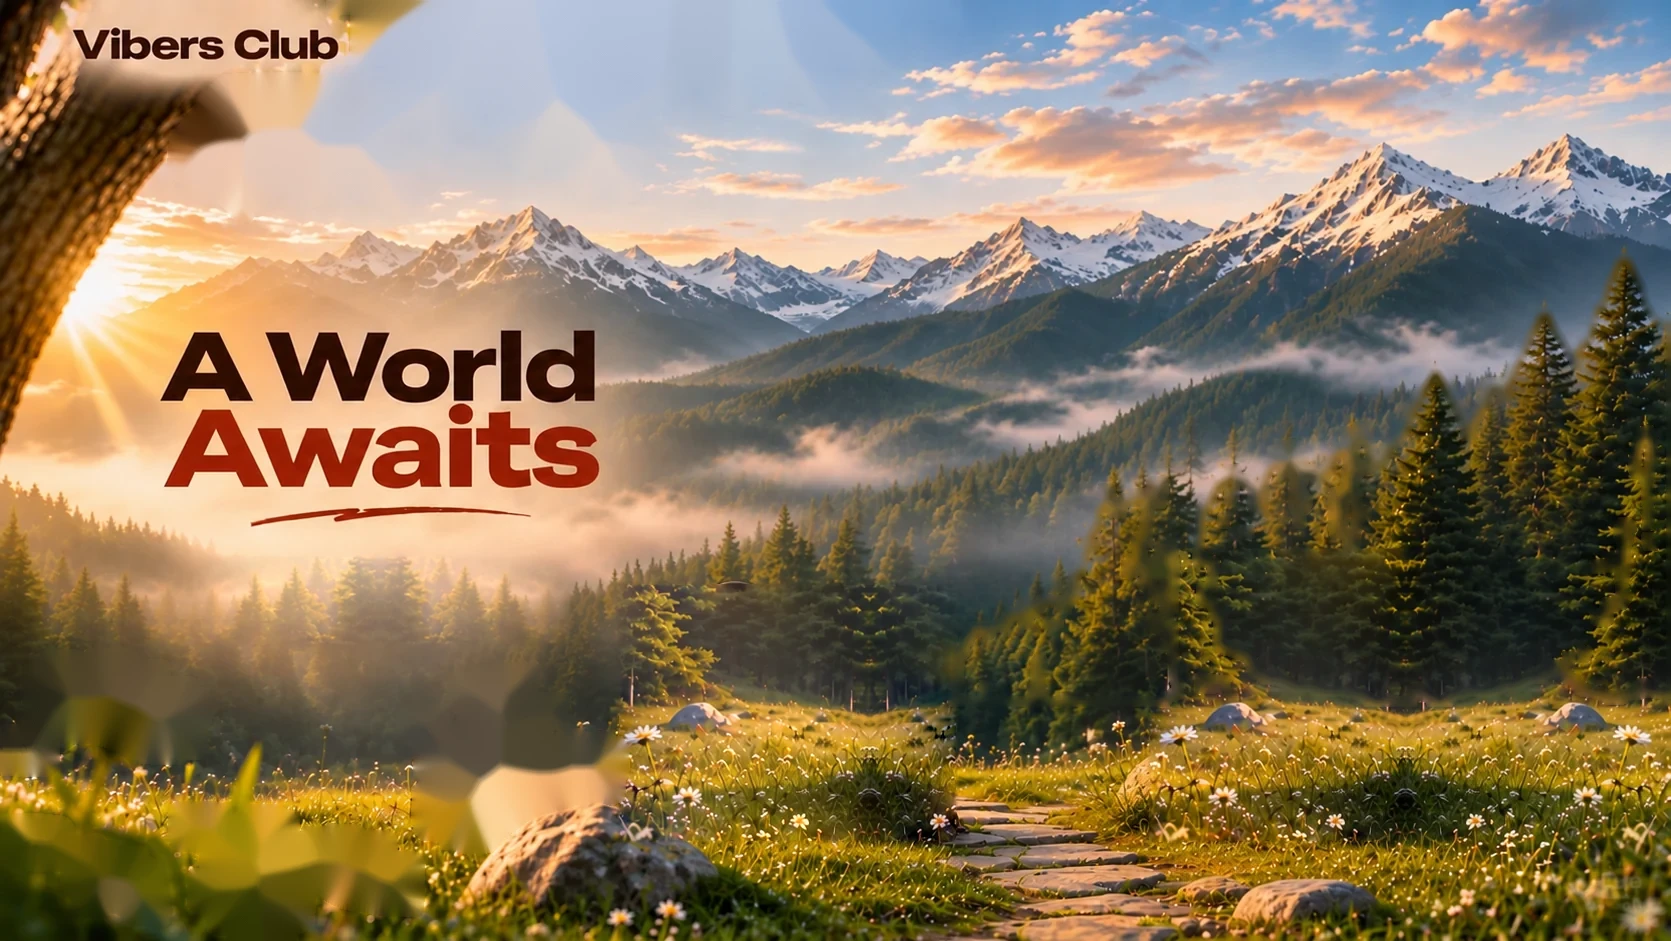
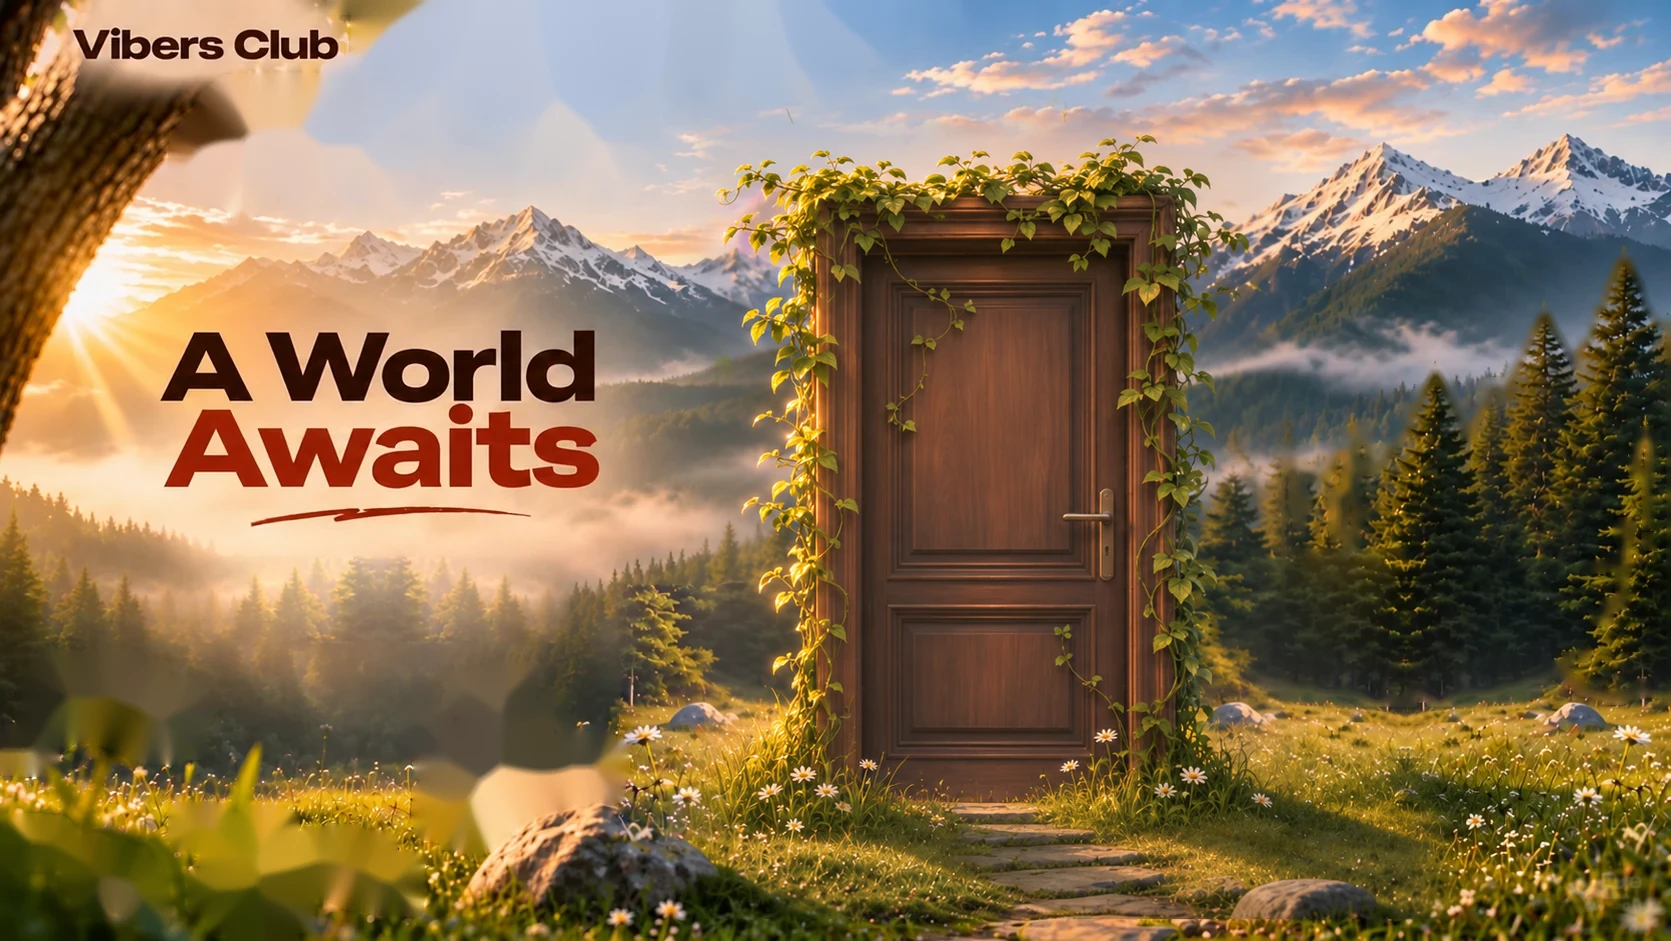
Door meadow: ARPIT's painted door wrapped in vines; only the door is cut out and swings open
Claude-Session: https://claude.ai/code/session_01EqQkYapVdeb76CjFPBEteX

Changed region(s): [[0.4045, 0.1233, 0.8713, 0.9862]]

diff --git a/apps/web/features/entry/scene.ts b/apps/web/features/entry/scene.ts
@@ -1,5 +1,4 @@
 import * as THREE from "three";
-import { groundDoor, RECESS } from "./grounding";
 import { addMeadowLife, layerPicture, loadMeadowLayers, MEADOW_STRENGTH, type MeadowLife } from "./scenery";
 
 /**
@@ -163,6 +162,11 @@ const MEADOW_Z = -14; // the picture stands this far behind the door
 // transparent, 772 x 1357) and the door itself (571 x 1226, the opening exactly)
 const WOOD_PX = { w: 772, h: 1357, open: { l: 100, r: 671, t: 113, b: 1339 } };
 const WOOD_UNIT = DOOR_H / (WOOD_PX.open.b - WOOD_PX.open.t);
+// ARPIT's door painted into the meadow picture, wrapped in vines (2026-11-18): the frame, vines, shadow and
+// grass are part of the picture; only the door is cut out (door-leaf-painted.webp), to swing open on its
+// left edge, and what stands in front of the doorway (door-front.png: grass, daisies, overhanging vines)
+// stays in front of it. Pixels of the meadow picture.
+const PAINTED = { l: 862, r: 1128, t: 247, b: 801, front: { l: 854, t: 239, r: 1136, b: 807 }, thick: 10 };
 
 export async function createEntryScene(
   canvas: HTMLCanvasElement,
@@ -191,7 +195,7 @@ export async function createEntryScene(
   const [frameTex, leafTex, meadowTex] = await Promise.all([
     picture(backdrop === "meadow" ? "/entry/doorframe-wood.webp" : "/entry/doorframe.webp"),
     picture(backdrop === "meadow" ? "/entry/door-leaf-wood.webp" : "/intro/door-leaf.webp"),
-    backdrop === "meadow" ? picture("/entry/meadow.webp") : Promise.resolve(null),
+    backdrop === "meadow" ? picture("/entry/meadow-door.webp") : Promise.resolve(null),
   ]);
   const alive = backdrop === "meadow" && !!opts.alive;
   const layers = alive ? await loadMeadowLayers(loader, keep) : null;
@@ -285,8 +289,7 @@ export async function createEntryScene(
   doorGroup.add(frame);
 
   // ---- the doorway itself: where the canvas turns transparent, showing the site underneath
-  // in the meadow the door and the doorway sit back inside the frame (grounding.ts)
-  const doorwayZ = -0.01 - (meadow ? RECESS : 0);
+  const doorwayZ = -0.01;
   const portal = new THREE.Mesh(
     keep(new THREE.PlaneGeometry(openW, DOOR_H)),
     keep(
@@ -354,24 +357,46 @@ export async function createEntryScene(
   const leafMat = keep(new THREE.MeshBasicMaterial({ map: leafTex, toneMapped: false }));
   const edgeMat = keep(new THREE.MeshBasicMaterial({ color: COL.edge, toneMapped: false }));
   const hinge = new THREE.Group();
-  hinge.position.set(-openW / 2 - leaf.lap, DOOR_Y, 0.02 + DOOR.t / 2 - (meadow ? RECESS : 0));
+  hinge.position.set(-openW / 2 - leaf.lap, DOOR_Y, 0.02 + DOOR.t / 2);
   const slab = new THREE.Mesh(keep(new THREE.BoxGeometry(leaf.w, leaf.h, DOOR.t)), [edgeMat, edgeMat, edgeMat, edgeMat, leafMat, leafMat]);
   slab.position.set(leaf.w / 2, leaf.h / 2, 0);
   slab.renderOrder = 15;
   hinge.add(slab);
   doorGroup.add(hinge);
-  // ARPIT: the door should belong in the meadow: depth, its light, its shadow, grass at its foot
-  const grounded = meadow
-    ? groundDoor({
-        doorGroup,
-        frameMat: frame.material as THREE.MeshBasicMaterial,
-        leafMat,
-        openW,
-        doorH: DOOR_H,
-        casing: { side: WOOD_PX.open.l * WOOD_UNIT, head: WOOD_PX.open.t * WOOD_UNIT, below: (WOOD_PX.h - WOOD_PX.open.b) * WOOD_UNIT },
-        keep,
-      })
-    : null;
+  // in the meadow the door is the one painted into the picture: the 3D frame and door step aside
+  if (meadow) frame.visible = hinge.visible = portal.visible = false;
+  const painted = new THREE.Group();
+  const paintedLeafMat = meadow ? keep(new THREE.MeshBasicMaterial({ map: await picture("/entry/door-leaf-painted.webp"), toneMapped: false })) : null;
+  if (meadow && paintedLeafMat) {
+    const P = PAINTED;
+    const w = P.r - P.l,
+      h = P.b - P.t;
+    // in pixels of the picture, y up, about the picture's middle (laid onto the picture in layoutMeadow)
+    const at = (x: number, y: number) => new THREE.Vector3(x - MEADOW_PX.w / 2, MEADOW_PX.h / 2 - y, 0);
+    const hole = new THREE.Mesh(
+      keep(new THREE.PlaneGeometry(w, h)),
+      keep(new THREE.MeshBasicMaterial({ color: 0x000000, transparent: true, opacity: 0, blending: THREE.NoBlending, depthWrite: true })),
+    );
+    hole.position.copy(at((P.l + P.r) / 2, (P.t + P.b) / 2)).setZ(-P.thick - 1);
+    hole.renderOrder = 10;
+    const swing = new THREE.Group();
+    swing.position.copy(at(P.l, P.b));
+    const edge = keep(new THREE.MeshBasicMaterial({ color: COL.edge, toneMapped: false }));
+    const slabP = new THREE.Mesh(keep(new THREE.BoxGeometry(w, h, P.thick)), [edge, edge, edge, edge, paintedLeafMat, paintedLeafMat]);
+    slabP.position.set(w / 2, h / 2, -P.thick / 2 + 1);
+    slabP.renderOrder = 15;
+    swing.add(slabP);
+    const F = P.front;
+    const front = new THREE.Mesh(
+      keep(new THREE.PlaneGeometry(F.r - F.l, F.b - F.t)),
+      keep(new THREE.MeshBasicMaterial({ map: await picture("/entry/door-front.png"), transparent: true, depthWrite: false, toneMapped: false })),
+    );
+    front.position.copy(at((F.l + F.r) / 2, (F.t + F.b) / 2)).setZ(2);
+    front.renderOrder = 20;
+    painted.add(hole, swing, front);
+    painted.userData = { swing, center: at((P.l + P.r) / 2, (P.t + P.b) / 2) };
+    scene.add(painted);
+  }
 
   // ---- the meadow picture: a plane far behind, covering the view like a photograph (laid out in resize)
   const meadowPlane = meadowTex
@@ -387,6 +412,7 @@ export async function createEntryScene(
   // the camera stands back further on narrow screens, so the doorframe still fits
   const camZ = meadow ? MEADOW_CAM_Z : CAM.z;
   const startZFor = (aspect: number) => (aspect < 1 ? camZ * (1.25 / Math.max(0.45, aspect)) * 0.62 : camZ);
+  const target = new THREE.Vector3(DOORWAY.x, DOORWAY.y, doorwayZ); // where the camera pushes through
   const layoutMeadow = () => {
     if (!meadowPlane) return;
     const d0 = startZFor(camera.aspect); // camera to the door
@@ -405,6 +431,11 @@ export async function createEntryScene(
     const sx = px + (MEADOW_SPOT.u - 0.5) * W;
     const sy = CAM.y + (0.5 - MEADOW_SPOT.v) * H;
     doorGroup.position.set((sx * d0) / D, CAM.y + ((sy - CAM.y) * d0) / D, 0);
+    // the painted door lies on the picture itself, and the camera pushes through its doorway there
+    painted.position.set(px, CAM.y, MEADOW_Z + 0.001);
+    painted.scale.setScalar(W / MEADOW_PX.w);
+    painted.updateMatrixWorld(true);
+    if (painted.userData.center) target.copy(painted.localToWorld((painted.userData.center as THREE.Vector3).clone()));
   };
 
   const life: MeadowLife | null = alive
@@ -445,20 +476,24 @@ export async function createEntryScene(
     // the door swings outward on its left-hand hinge, a touch darker as it turns from the light
     hinge.rotation.y = -(Math.PI / 2) * 1.05 * p.door;
     leafMat.color.setScalar(1 - 0.35 * Math.sin(Math.PI * 0.5 * p.door));
-    grounded?.update(p.door);
+    if (paintedLeafMat) {
+      (painted.userData.swing as THREE.Group).rotation.y = -(Math.PI / 2) * 1.05 * p.door;
+      paintedLeafMat.color.setScalar(1 - 0.35 * Math.sin(Math.PI * 0.5 * p.door));
+    }
     // the camera: a slow breath while waiting, then straight in through the doorway; it sits on narrow
     // screens further back so the doorframe still fits
     const startZ = startZFor(camera.aspect);
-    const dx = doorGroup.position.x + DOORWAY.x;
-    const dy = doorGroup.position.y + DOORWAY.y;
+    const dx = meadow ? target.x : doorGroup.position.x + DOORWAY.x;
+    const dy = meadow ? target.y : doorGroup.position.y + DOORWAY.y;
+    const dz = meadow ? target.z : doorwayZ;
     const breathe = (1 - p.push) * p.life;
     life?.update(dt, p.push);
     uOff.value = (uOff.value + Math.min(dt, 0.1) * 0.012 * MEADOW_STRENGTH) % 2;
     const look = life?.offset ?? { x: 0, y: 0 };
     // ending just short of the doorway, where the opening overfills the screen (all transparent)
-    const endZ = doorwayZ + 0.12;
+    const endZ = dz + 0.12;
     const z = startZ + (endZ - startZ) * p.push;
-    const k = (z - doorwayZ) / (startZ - doorwayZ);
+    const k = (z - dz) / (startZ - dz);
     camera.position.set(
       dx + (CAM.x - dx) * k + Math.sin(time * 0.23) * 0.12 * breathe + look.x,
       dy + (CAM.y - dy) * k + Math.sin(time * 0.31) * 0.06 * breathe + look.y,
@@ -467,7 +502,7 @@ export async function createEntryScene(
     camera.fov = CAM.fov + 8 * p.push * p.push;
     camera.updateProjectionMatrix();
     // always looking straight ahead, so the doorframe stands upright and the push runs dead straight
-    camera.lookAt(camera.position.x, camera.position.y, doorwayZ - 10);
+    camera.lookAt(camera.position.x, camera.position.y, dz - 10);
     renderer.render(scene, camera);
   };
 

diff --git a/apps/web/features/entry/EntryDoor.tsx b/apps/web/features/entry/EntryDoor.tsx
@@ -41,6 +41,8 @@ export function EntryDoor({
   const hint = useRef<HTMLDivElement>(null);
   const unveil = useRef<HTMLDivElement>(null);
   const started = useRef(false);
+  // ready at once for the keyboard too, without waiting for React to re-register the key listener
+  const ready = useRef(false);
   // where the meadow's button stands: over its spot on the picture, or along the bottom when that is off screen
   const [spot, setSpot] = useState<{ x: number; y: number } | null>(null);
   const params = useRef(initialEntryParams());
@@ -75,6 +77,7 @@ export function EntryDoor({
       scene = sc;
       gsap.ticker.add(tick);
       place();
+      ready.current = true;
       setState("ready");
     });
     window.addEventListener("resize", place);
@@ -113,7 +116,7 @@ export function EntryDoor({
   }, [state]);
 
   const enter = useCallback(() => {
-    if (state !== "ready" || started.current) return;
+    if (!ready.current || started.current) return;
     started.current = true;
     setState("going");
     const p = params.current;
@@ -134,7 +137,7 @@ export function EntryDoor({
       .to(root.current, { autoAlpha: 0, duration: 0.22, ease: "power1.in" }, 2.45);
     running.current = tl;
     if (process.env.NODE_ENV !== "production") Object.assign(window, { __entryTimeline: tl });
-  }, [state]);
+  }, []);
 
   useEffect(() => {
     const onKey = (e: KeyboardEvent) => {

diff --git a/CLAUDE.md b/CLAUDE.md
@@ -62,7 +62,7 @@ uv run pytest                            # needs TEST_DATABASE_URL; tests/unit n
 
 **Routes:**
 - `app/` holds thin route files. Screens live in `features/<area>/`.
-- `/` is the entry (`features/entry`) over ARPIT's sunset camp (`features/camp`, built up step by step; `campScene.ts` moves the tree, prayer flags and cloud detail as cut-out layers, from `public/camp/sunset-bg.webp`, `sunset-rig.png` and `sunset-sky.webp`): the door opens onto the camp. Earlier it moved to `/home` with an in-memory flag (`handoff.ts`) and `EntryOnHome` laid the door over Home; that code is kept but unused by `/`. ARPIT's panelled wooden door stands on the path in their mountain meadow picture (`backdrop="meadow"`) set back in its frame, lit, shadowed and with grass at its foot so it belongs there (`grounding.ts`), with a brown "Unveil What Awaits" button (`features/intro/UnveilButton`, `tone="brown"`); the scenery moves after ThreeUI's Temple Night (`features/entry/scenery.ts`, `alive`: the picture moves in cut-out layers (`layerPicture`: branch, pines, each daisy on its own, grass gusts, valley mist, cloud detail; from `public/entry/meadow-bg.webp`, `meadow-rig.png`, `meadow-sky.webp`, `meadow-flowers.png`), plus haze, pollen, falling leaves, pointer wisps); the button, a tap or Enter swings the door outward and pushes the camera through the doorway into Home, which shows through a transparent portal in the canvas. Review frames at `/entry-demo` too. The earlier clouds version (doorframe, "VIBERS" sign) is still `backdrop="clouds"`, the default. The previous entry ("A World Awaits", `features/intro`) and the old journey (`features/journey`) are no longer routed but kept until ARPIT approves deleting them; Home's opening still reuses the journey's planet.
+- `/` is the entry (`features/entry`) over ARPIT's sunset camp (`features/camp`, built up step by step; `campScene.ts` moves the tree, prayer flags and cloud detail as cut-out layers, from `public/camp/sunset-bg.webp`, `sunset-rig.png` and `sunset-sky.webp`): the door opens onto the camp. Earlier it moved to `/home` with an in-memory flag (`handoff.ts`) and `EntryOnHome` laid the door over Home; that code is kept but unused by `/`. ARPIT's door is painted, wrapped in vines, into their mountain meadow picture (`backdrop="meadow"`, `public/entry/meadow-door.webp`); only the door itself is cut out (`PAINTED` in `scene.ts`, `door-leaf-painted.webp`, with `door-front.png` keeping grass and vines in front of the doorway) and swings open, with a brown "Unveil What Awaits" button (`features/intro/UnveilButton`, `tone="brown"`); the scenery moves after ThreeUI's Temple Night (`features/entry/scenery.ts`, `alive`: the picture moves in cut-out layers (`layerPicture`: branch, pines, each daisy on its own, grass gusts, valley mist, cloud detail; from `public/entry/meadow-bg.webp`, `meadow-rig.png`, `meadow-sky.webp`, `meadow-flowers.png`), plus haze, pollen, falling leaves, pointer wisps); the button, a tap or Enter swings the door outward and pushes the camera through the doorway into Home, which shows through a transparent portal in the canvas. Review frames at `/entry-demo` too. The earlier clouds version (doorframe, "VIBERS" sign) is still `backdrop="clouds"`, the default. The previous entry ("A World Awaits", `features/intro`) and the old journey (`features/journey`) are no longer routed but kept until ARPIT approves deleting them; Home's opening still reuses the journey's planet.
 - `/home` is the club home: one long scrolling "issue", chapters I to VII.
 - Discover, Events and Explore render inline on Home as chapters V to VII (`features/home/HomeMore.tsx`, `inline` props). They also keep their own routes.
 

diff --git a/docs/PROGRESS.md b/docs/PROGRESS.md
@@ -14,6 +14,18 @@
 ## Current milestone
 M0 Foundations. **Plan changed on 2026-10-26: website first** ([ADR-0020](adr/0020-mobile-first-website-first.md)). M0a and M0b are done, plus the Discover design step. Next: M0c (CI and staging deploys).
 
+## 2026-11-18: ARPIT's door painted into the meadow, wrapped in vines
+
+ARPIT: "the door still looks out of the place and cheap". They chose to paint the door into the picture, with vines ("we can decorate the door with vines"), and sent the painting. Photos were approved with "yes".
+- `public/entry/meadow-door.webp`: ARPIT's painting, lined up with the old meadow picture so every layer, the title and the button keep their place. Only the area around the door comes from the painting; the button and falling leaves baked into their screenshot are left out.
+- `features/entry/scene.ts` (`PAINTED`): the frame, vines, shadow and grass are part of the picture. Only the door is cut out (`door-leaf-painted.webp`) and swings open on its left edge. What stands in front of the doorway (`door-front.png`: grass, daisies, overhanging vines) stays in front of it. The camera pushes through the painted doorway. The 3D frame and door are hidden in the meadow, and `grounding.ts` is no longer used.
+- The moving layers were rebuilt on the painting. The door, frame and vines stay still.
+- `EntryDoor.tsx`: Enter now works the moment the door is ready (a ref, not a re-registered listener), which fixes the e2e Enter timing flake.
+
+Unused now, kept until ARPIT OKs deleting them: `features/entry/grounding.ts`, `public/entry/meadow.webp`, `meadow-motion.png`, `doorframe-wood.webp`, `door-leaf-wood.webp`.
+
+Tests: lint and typecheck clean. e2e entry, sweep and the camp check (one worker) gave 35 passed and 1 Enter timeout. After the Enter fix, entry and the camp check gave 10 of 10 passed.
+
 ## 2026-11-18: the door belongs in the meadow
 
 ARPIT: "cant we add depth into the door as it looks like it doesnt belong there". Before and after photos (the "Door in the meadow, with depth" Artifact page) were approved with "yes". The new `features/entry/grounding.ts` is used by `scene.ts` in the meadow only:
